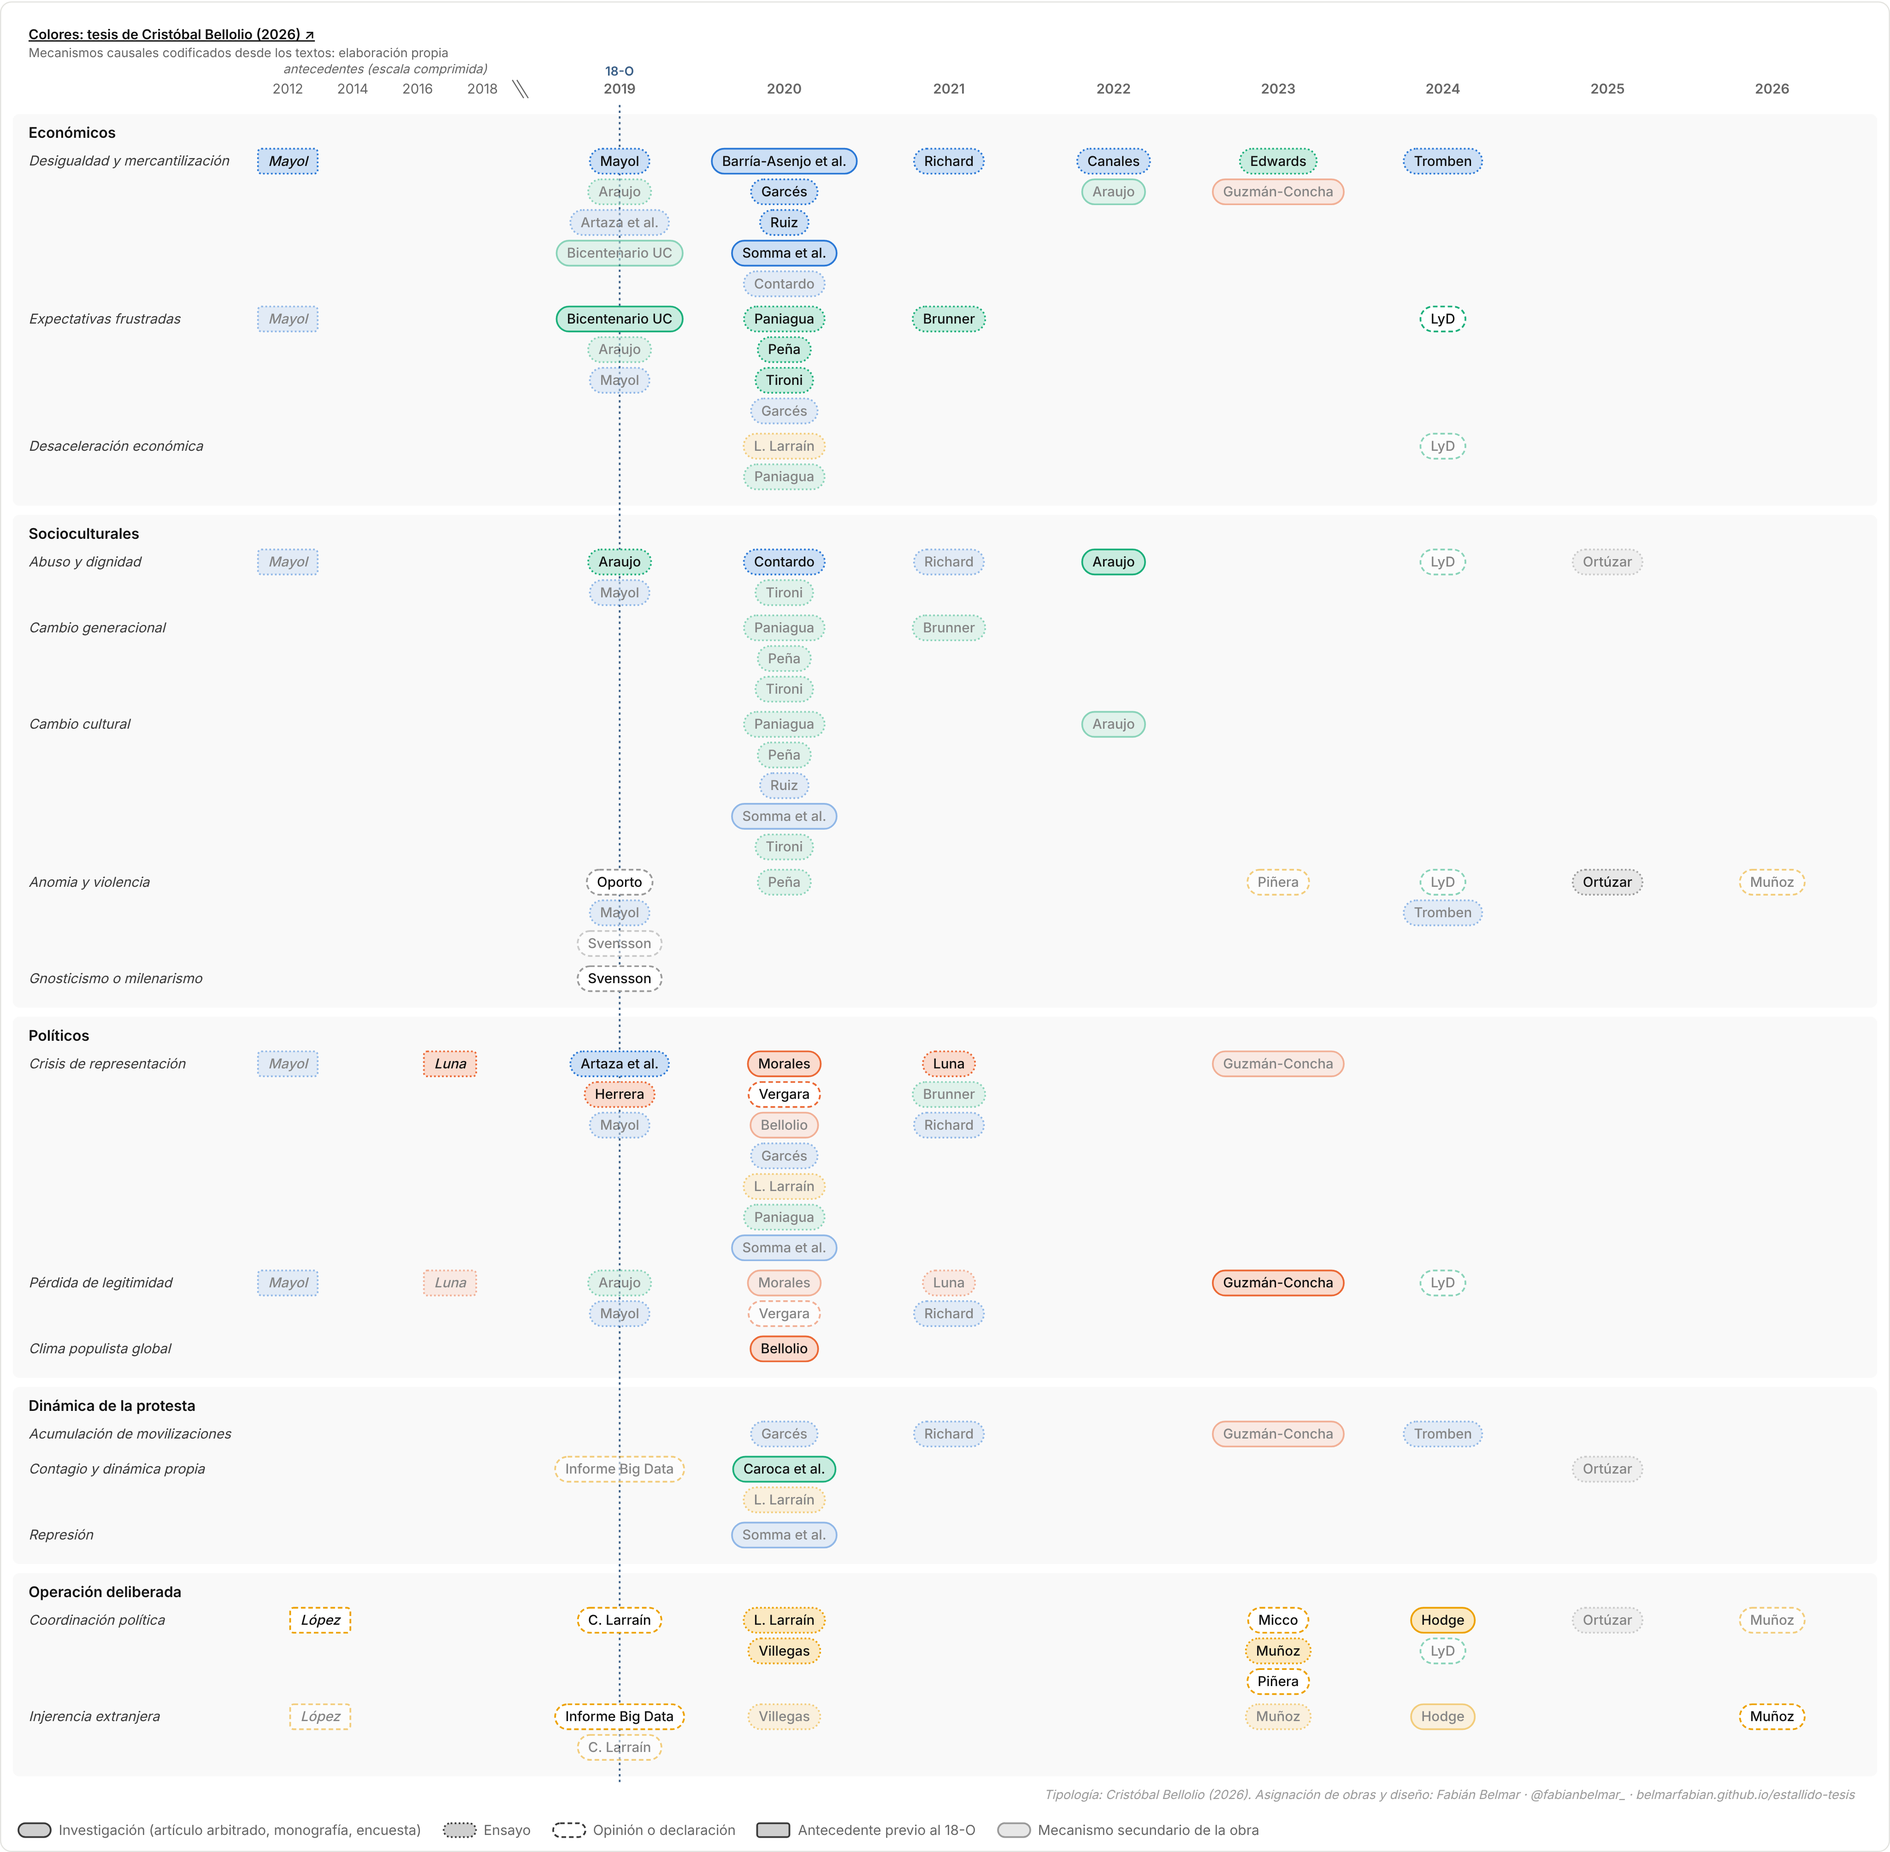
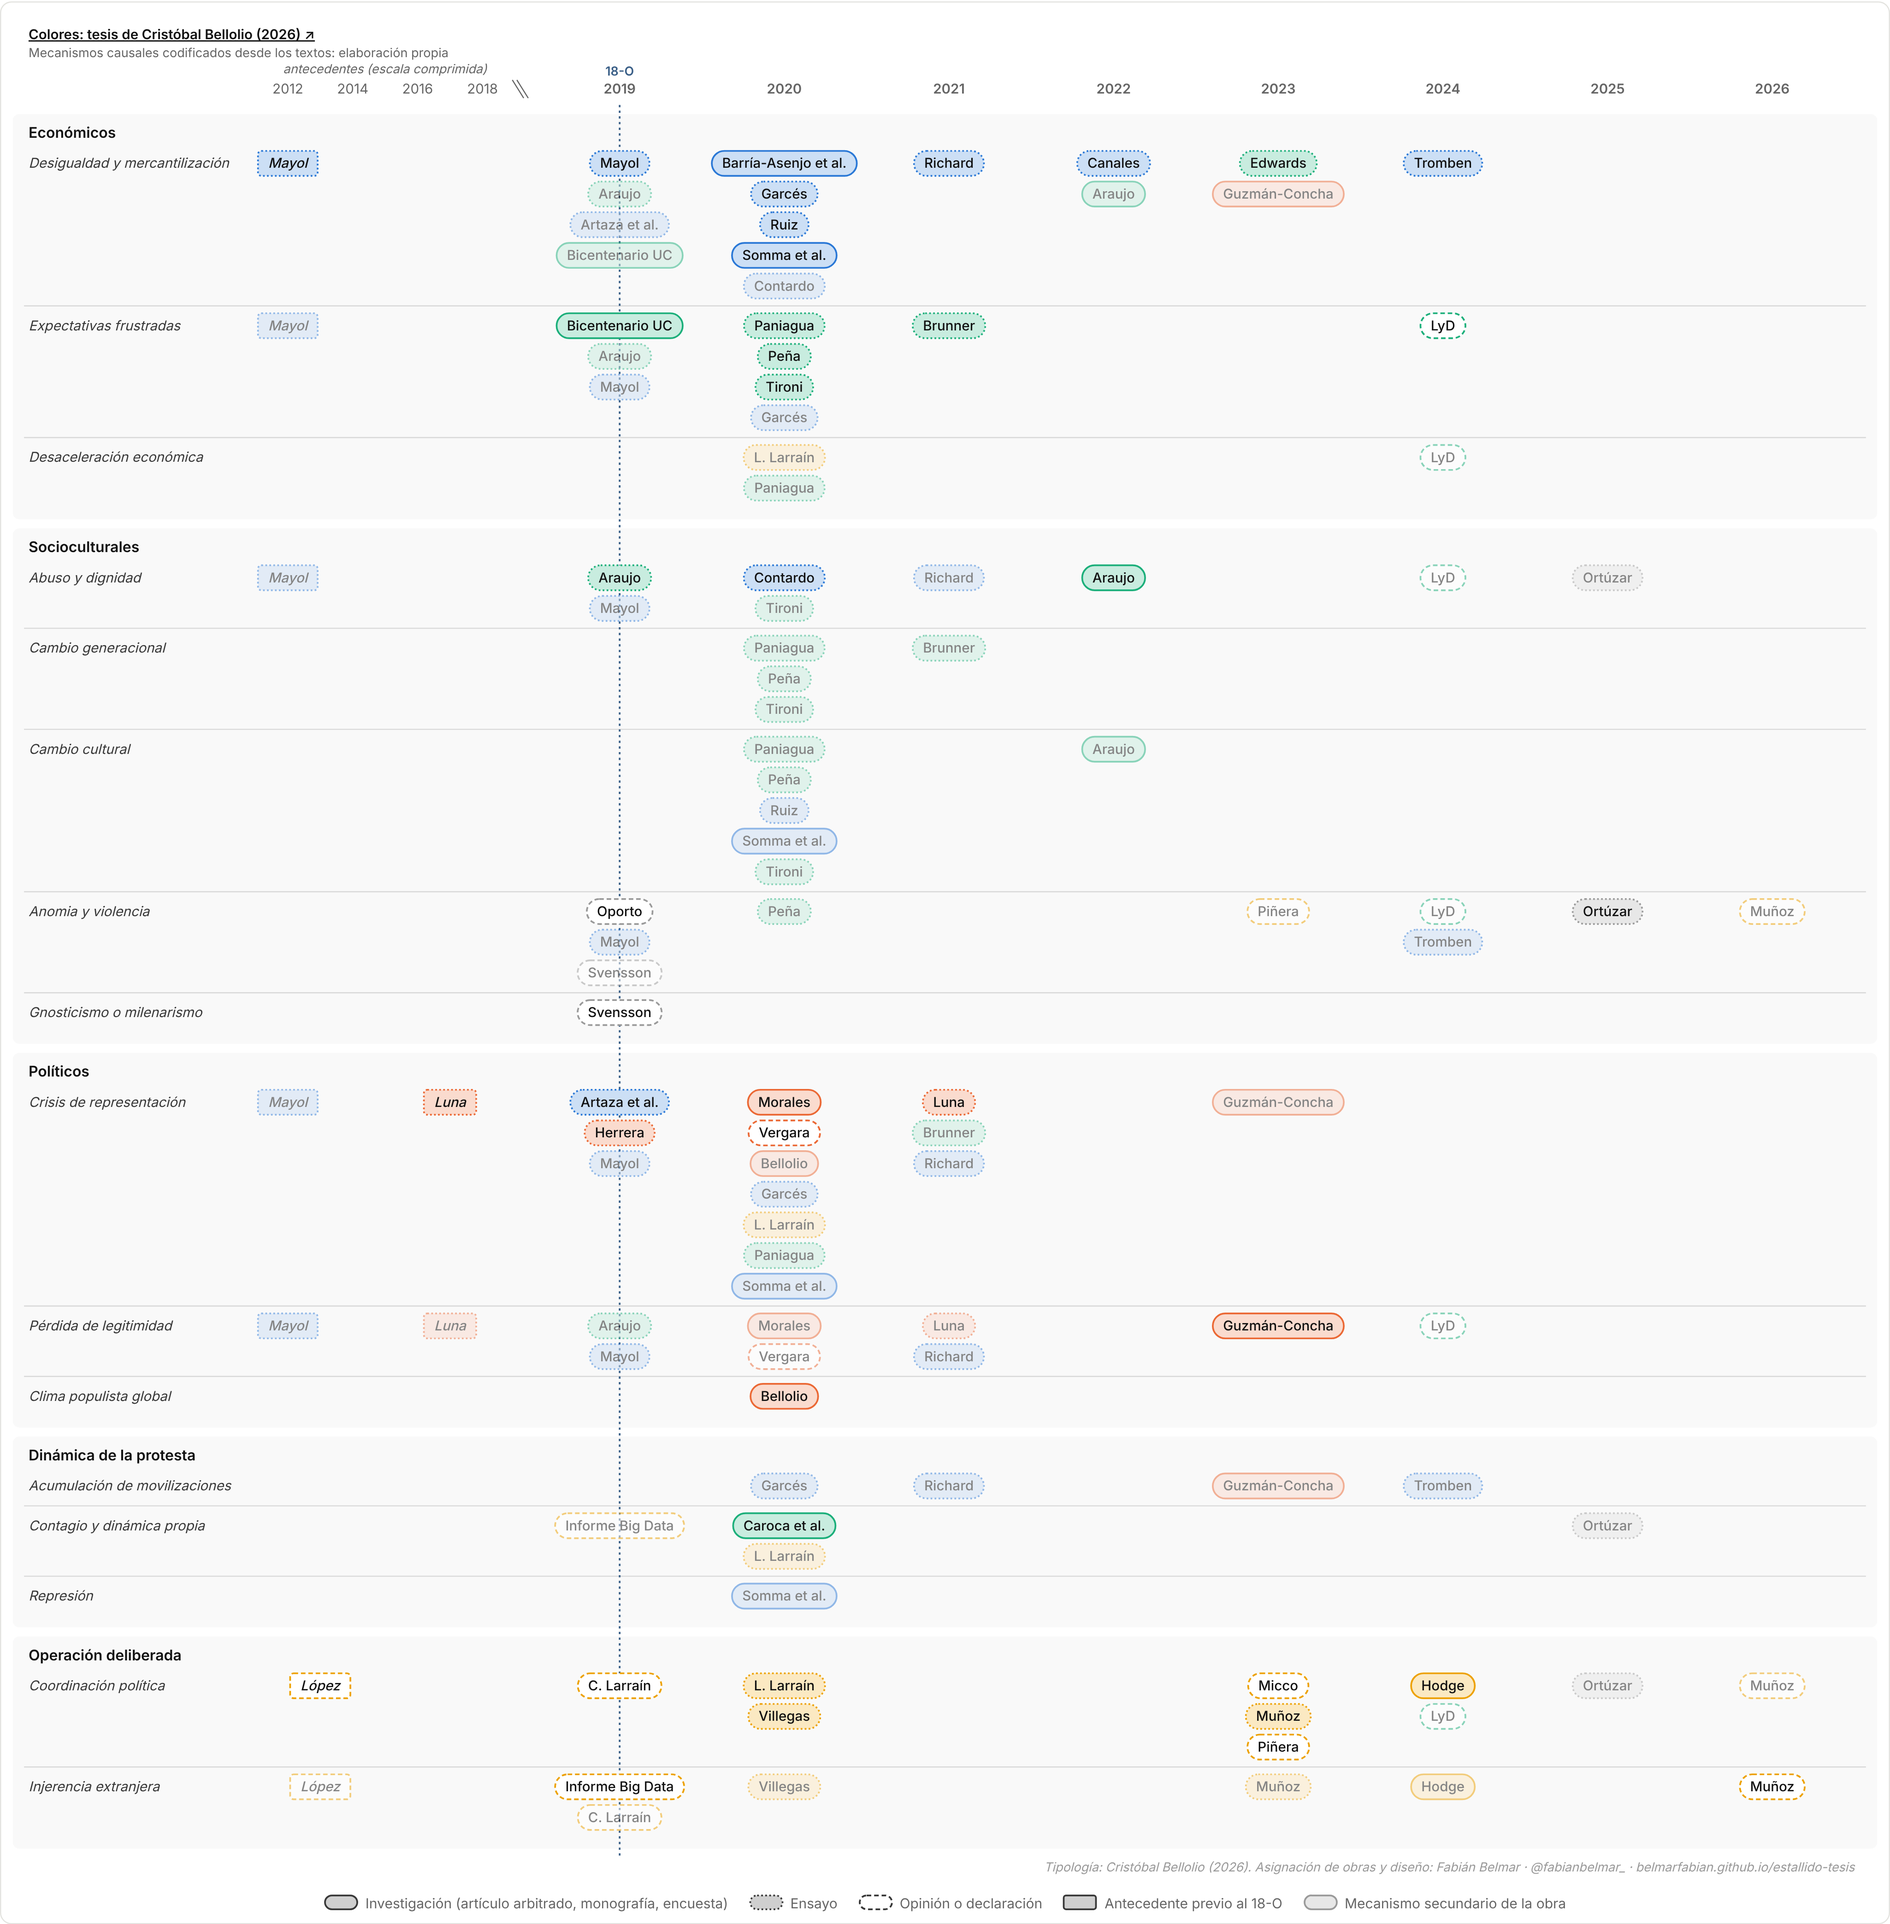
Sin historial de versiones; líneas divisorias entre subcorrientes; bloques centrados
Claude-Session: https://claude.ai/code/session_01AycMZX7PjrihgT7aE5Rdm5

diff --git a/estallido-tesis/index.html b/estallido-tesis/index.html
@@ -56,7 +56,7 @@ h1{font-family:"Source Serif 4",Georgia,serif;font-weight:600;font-size:clamp(26
 .chips{display:flex;flex-wrap:wrap;gap:6px}
 html:not(.export) #map .printonly{display:none}
 html.export .chiprow{display:none}
-.chiprow{display:flex;flex-wrap:wrap;align-items:center;gap:6px 10px;margin:0 4px 8px;font-size:12px;color:var(--muted)}
+.chiprow{display:flex;flex-wrap:wrap;align-items:center;justify-content:center;gap:6px 10px;margin:0 4px 8px;font-size:12px;color:var(--muted)}
 .chiprow .chip{font-size:12px;padding:3px 10px}
 .chip{display:inline-flex;align-items:center;gap:7px;border:1px solid var(--border-strong);background:var(--bg);color:var(--text-2);border-radius:999px;padding:4px 11px 4px 9px;font:inherit;font-size:13px;cursor:pointer}
 .chip i{width:10px;height:10px;border-radius:50%;display:inline-block}
@@ -116,7 +116,9 @@ footer{margin-top:48px;padding-top:14px;border-top:1px solid var(--border);font-
 .tw{overflow-x:auto}
 .lede,.credit,figcaption,.prose p,.detail p,#stats{text-align:justify;hyphens:auto;-webkit-hyphens:auto;text-wrap:pretty}
 .lede,.credit,.stats{max-width:680px}
-h1,.lede,.credit,.stats,.citetop,.prose,h2:not(.wide),figcaption,.top{max-width:720px;margin-left:auto;margin-right:auto}
+h1,.lede,.credit,.stats,.citetop,.prose,.wrap>h2,figcaption,.top,.bars,.tbar,.wrap>p,.cite,.wrap>.sub,.wrap>details,.wrap>.btns,footer{max-width:720px;margin-left:auto;margin-right:auto}
+.controls{max-width:none}
+.legend{justify-content:center}
 h1{text-align:center;text-wrap:balance}
 .controls{justify-content:center;margin-left:auto;margin-right:auto}
 .segwrap{display:flex;justify-content:center}
@@ -171,7 +173,7 @@ tr.grp td{padding:18px 8px 6px;font-weight:600;font-size:14px;border-bottom:1px 
     <div class="fig"><svg id="bars" role="img" aria-label="Barras apiladas de obras por año, tesis y registro"></svg><div class="legend" id="legend2"></div><div class="tip" id="tip2"></div></div>
   </figure>
 
-  <h2 class="wide">Referencias</h2>
+  <h2>Referencias</h2>
   <div class="tbar">
     <input class="search" id="q" type="search" placeholder="Buscar autor, título o tesis…" aria-label="Buscar en referencias" style="min-width:240px">
   </div>
@@ -194,37 +196,26 @@ tr.grp td{padding:18px 8px 6px;font-weight:600;font-size:14px;border-bottom:1px 
   </div>
 
   <h2 id="citar">Cómo citar</h2>
-  <p style="margin:0 0 10px"><a href="https://doi.org/10.5281/zenodo.23455927"><img src="https://zenodo.org/badge/DOI/10.5281/zenodo.23455927.svg" alt="DOI 10.5281/zenodo.23455927" height="20"></a></p>
-  <div class="cite" id="cite">Belmar, F. (2026). <i>Tesis sobre el estallido social: mapa longitudinal y base de referencias</i> (versión 1.5.0) [Conjunto de datos]. Zenodo. <a href="https://doi.org/10.5281/zenodo.23455927">https://doi.org/10.5281/zenodo.23455927</a></div>
-  <p class="sub" style="margin-top:8px">El DOI apunta siempre a la última versión; cada versión tiene además su propio DOI en <a href="https://doi.org/10.5281/zenodo.23455927" style="color:var(--accent)">Zenodo</a>. Si usas la tipología, cita también a Bellolio (2026). Datos y código en <a href="https://github.com/belmarfabian/estallido-tesis" style="color:var(--accent)">GitHub</a>.</p>
+  <p style="margin-top:0;margin-bottom:10px"><a href="https://doi.org/10.5281/zenodo.23455927"><img src="https://zenodo.org/badge/DOI/10.5281/zenodo.23455927.svg" alt="DOI 10.5281/zenodo.23455927" height="20"></a></p>
+  <div class="cite" id="cite">Belmar, F. (2026). <i>Tesis sobre el estallido social: mapa longitudinal y base de referencias</i> [Conjunto de datos]. Zenodo. <a href="https://doi.org/10.5281/zenodo.23455927">https://doi.org/10.5281/zenodo.23455927</a></div>
+  <p class="sub" style="margin-top:8px">El registro está en <a href="https://doi.org/10.5281/zenodo.23455927" style="color:var(--accent)">Zenodo</a>. Si usas la tipología, cita también a Bellolio (2026). Datos y código en <a href="https://github.com/belmarfabian/estallido-tesis" style="color:var(--accent)">GitHub</a>.</p>
   <details style="margin-top:10px"><summary style="cursor:pointer;font-size:13px;color:var(--muted)">BibTeX</summary>
 <pre>@dataset{belmar2026estallido,
   author    = {Belmar, Fabián},
   title     = {Tesis sobre el estallido social: mapa longitudinal y base de referencias},
   year      = {2026},
-  version   = {1.5.0},
   publisher = {Zenodo},
   doi       = {10.5281/zenodo.23455927},
   url       = {https://doi.org/10.5281/zenodo.23455927},
   note      = {Tipología de las tesis: Bellolio (2026). Asignación de obras: elaboración propia}
 }</pre></details>
 
-  <h2>Historial de versiones</h2>
-  <div class="prose hist">
-    <p><b>1.5.0</b>. Revisión de diseño y legibilidad: columna centrada, tabla agrupada por tesis, líneas por año y referencia al tocar en pantallas táctiles. La entrevista de Vergara va a su nombre y la etiqueta «Folchi et al.» pasa a «Artaza et al.».</p>
-    <p><b>1.4.0</b> (<a href="https://doi.org/10.5281/zenodo.23457225">10.5281/zenodo.23457225</a>). Prueba de confiabilidad con un segundo codificador ciego. Los libros de Contardo y Tironi pasan a ensayo. Un solo gráfico por año, tesis y registro, y formulario para proponer obras.</p>
-    <p><b>1.3.0</b> (<a href="https://doi.org/10.5281/zenodo.23456785">10.5281/zenodo.23456785</a>). Registro en tres niveles con criterio común. Entran Hodge Dupré (2024) y Muñoz Riveros (2023) en la tesis insurreccional, y Tromben (2024), Libertad y Desarrollo (2024) y Ortúzar (2025) según su tesis central. Los libros de L. Larraín y Villegas pasan de opinión a ensayo. Blumel (2023) se evaluó y no entra, porque es una memoria de gestión. 41 obras.</p>
-    <p><b>1.2.0</b> (<a href="https://doi.org/10.5281/zenodo.23456580">10.5281/zenodo.23456580</a>). Codificación multietiqueta de 16 mecanismos causales y vista de obras por mecanismo.</p>
-    <p><b>1.1.0</b> (<a href="https://doi.org/10.5281/zenodo.23456422">10.5281/zenodo.23456422</a>). Primera categorización emergente y criterio para «Otras lecturas».</p>
-    <p><b>1.0.1</b> (<a href="https://doi.org/10.5281/zenodo.23456351">10.5281/zenodo.23456351</a>). Crédito explícito a Bellolio por la tipología y corrección de referencias.</p>
-    <p><b>1.0.0</b> (<a href="https://doi.org/10.5281/zenodo.23455928">10.5281/zenodo.23455928</a>). Primera versión, con 36 obras. Todas las versiones son del 18 de octubre de 2026. El detalle está en <a href="https://github.com/belmarfabian/estallido-tesis/blob/main/CHANGELOG.md">CHANGELOG.md</a>.</p>
-  </div>
 
   <h2>Proponer una referencia</h2>
-  <div class="prose"><p>Si falta una obra, envíala con autor, año, título y su argumento central, aunque no calce en la tipología de Bellolio. Si se puede verificar, entra en la próxima versión.</p></div>
+  <div class="prose"><p>Si falta una obra, envíala con autor, año, título y su argumento central, aunque no calce en la tipología de Bellolio. Si se puede verificar, se agrega a la base.</p></div>
   <div class="btns"><a class="btn primary" id="propose" href="https://github.com/belmarfabian/estallido-tesis/issues/new?template=nueva-obra.yml">Proponer una obra (formulario)</a><a class="btn" href="https://x.com/fabianbelmar_">Escribir en X</a></div>
 
-  <footer>Tipología: Cristóbal Bellolio (2026) · Asignación de obras y visualización: Fabián Belmar · Centro de Estudios Públicos · ORCID <a href="https://orcid.org/0000-0003-4239-1874" style="color:inherit">0000-0003-4239-1874</a> · Versión 1.5.0, octubre de 2026 · Datos bajo licencia CC BY 4.0.</footer>
+  <footer>Tipología: Cristóbal Bellolio (2026) · Asignación de obras y visualización: Fabián Belmar · Centro de Estudios Públicos · ORCID <a href="https://orcid.org/0000-0003-4239-1874" style="color:inherit">0000-0003-4239-1874</a> · Datos bajo licencia CC BY 4.0.</footer>
 </div>
 
 <script src="https://cdnjs.cloudflare.com/ajax/libs/d3/7.8.5/d3.min.js"></script>

diff --git a/estallido-tesis/app.js b/estallido-tesis/app.js
@@ -176,7 +176,7 @@
   function renderMap() {
     var svg = d3.select("#map"); svg.selectAll("g,line,rect,path,text:not(title):not(desc)").remove();
     var L = lanes();
-    var labelW = state.scheme === "emergente" ? 228 : 190, preW = 200, gapW = 34, yearW = 145, padR = 20, top = 84, pillH = 22, pillGap = 5, lanePad = 9, bandPad = 10, bandGap = 8;
+    var labelW = state.scheme === "emergente" ? 228 : 190, preW = 200, gapW = 34, yearW = 145, padR = 20, top = 84, pillH = 22, pillGap = 5, lanePad = 13, bandPad = 10, bandGap = 8;
     var yearsPost = d3.range(2019, Y1 + 1);
     var W = labelW + preW + gapW + yearsPost.length * yearW + padR;
     var xPre = d3.scaleLinear().domain([Y0 - 0.5, 2018.5]).range([labelW, labelW + preW]);
@@ -207,7 +207,12 @@
       g.append("rect").attr("x", 0).attr("y", grp.y0).attr("width", W).attr("height", grp.y1 - grp.y0)
         .attr("rx", 6).attr("fill", grp.color).attr("fill-opacity", state.scheme === "emergente" ? 0.06 : 0.07);
       g.append("text").attr("class", "thesis-label").attr("x", 14).attr("y", grp.y0 + bandPad + 11).text(grp.name);
-      grp.subs.forEach(function (s) {
+      grp.subs.forEach(function (s, k) {
+        if (k > 0) {
+          var prev = grp.subs[k - 1], yd = (prev.y0 + prev.h + s.y0) / 2;
+          g.append("line").attr("x1", 10).attr("x2", W - 10).attr("y1", yd).attr("y2", yd)
+            .attr("stroke", grp.color).attr("stroke-opacity", 0.35).attr("stroke-width", 1);
+        }
         g.append("text").attr("class", "lane-label").attr("x", 14).attr("y", s.y0 + pillH / 2 + 4)
           .attr("font-style", "italic").text(s.name);
       });

diff --git a/estallido-tesis/README.md b/estallido-tesis/README.md
@@ -40,7 +40,7 @@ La base no se limita a la tipología de Bellolio. Las obras que no calzan en las
 Un segundo codificador clasificó las 41 obras a ciegas con las mismas definiciones y el mismo libro de códigos. Fue un modelo de lenguaje, no una persona, por lo que la prueba es un contraste preliminar. Acuerdo en la tesis: 40 de 41 (kappa de Cohen = 0,97). Registro: kappa = 0,96. Mecanismo principal: kappa = 0,83. Conjunto de mecanismos: alfa de Krippendorff = 0,64, bajo el umbral de 0,667 para conclusiones tentativas (Krippendorff, 2004, pp. 241–243). Las dos codificaciones están en `datos/confiabilidad.csv`.
 ## Cómo citar
 
-Belmar, F. (2026). *Tesis sobre el estallido social: mapa longitudinal y base de referencias* (versión 1.5.0) [Conjunto de datos]. Zenodo. https://doi.org/10.5281/zenodo.23455927
+Belmar, F. (2026). *Tesis sobre el estallido social: mapa longitudinal y base de referencias* [Conjunto de datos]. Zenodo. https://doi.org/10.5281/zenodo.23455927
 
 Si usas la tipología, cita también a Bellolio (2026).
 
